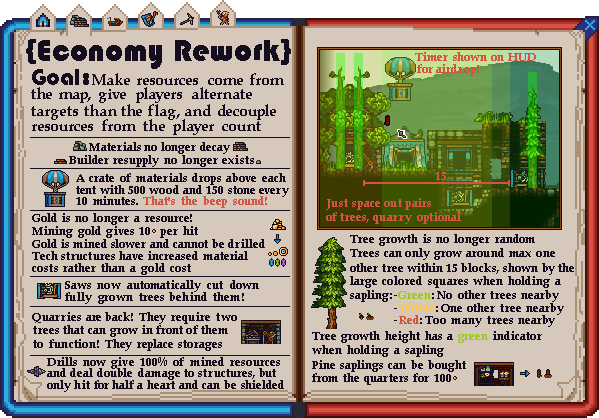
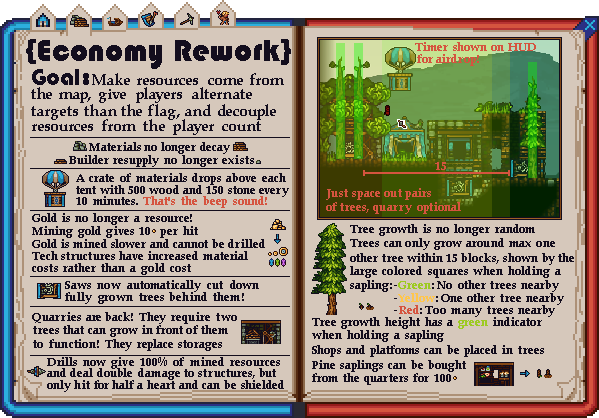
Platforms in Trees
Platforms and bridges can now be placed in trees. Logs no longer collide with platforms or bridges. Logs spawned on tree death ignore blobs. Collapsing trees ignore platforms and bridges.

Changed region(s): [[0.5109, 0.0622, 0.9616, 0.8708]]

diff --git a/README.md b/README.md
@@ -133,13 +133,16 @@ DISCLAIMER: Developed without compatibility with other mods in mind, so there's 
 - Saplings can no longer be placed on each other
 - Can build buildings behind trees
 - Can be placed on non-static blobs
+- Can place platforms inside of trees
 - Can no longer grow inside of static blobs or on other trees
 - Can no longer build blocks on top of saplings placed with left click
 - Fixed misalignment from seeds (no build would float half a block off the ground)
 - Fixed logs clipping into the ceiling or floor when spawned
+- Logs no longer collide with bridges or platforms
 - Redid collapse code
-    - Checks on the falling edge for solid blocks, doors, or platforms
+    - Checks on the falling edge for solid blocks and doors
     - Fixed a bug where could drop logs incorrectly
+	- No longer collides with platforms and bridges when falling
 - Redid growth code
     - Can now break Wood and stone blocks, doors, and platforms
     - Can no longer grow in one tall holes if the block above isn't breakable
